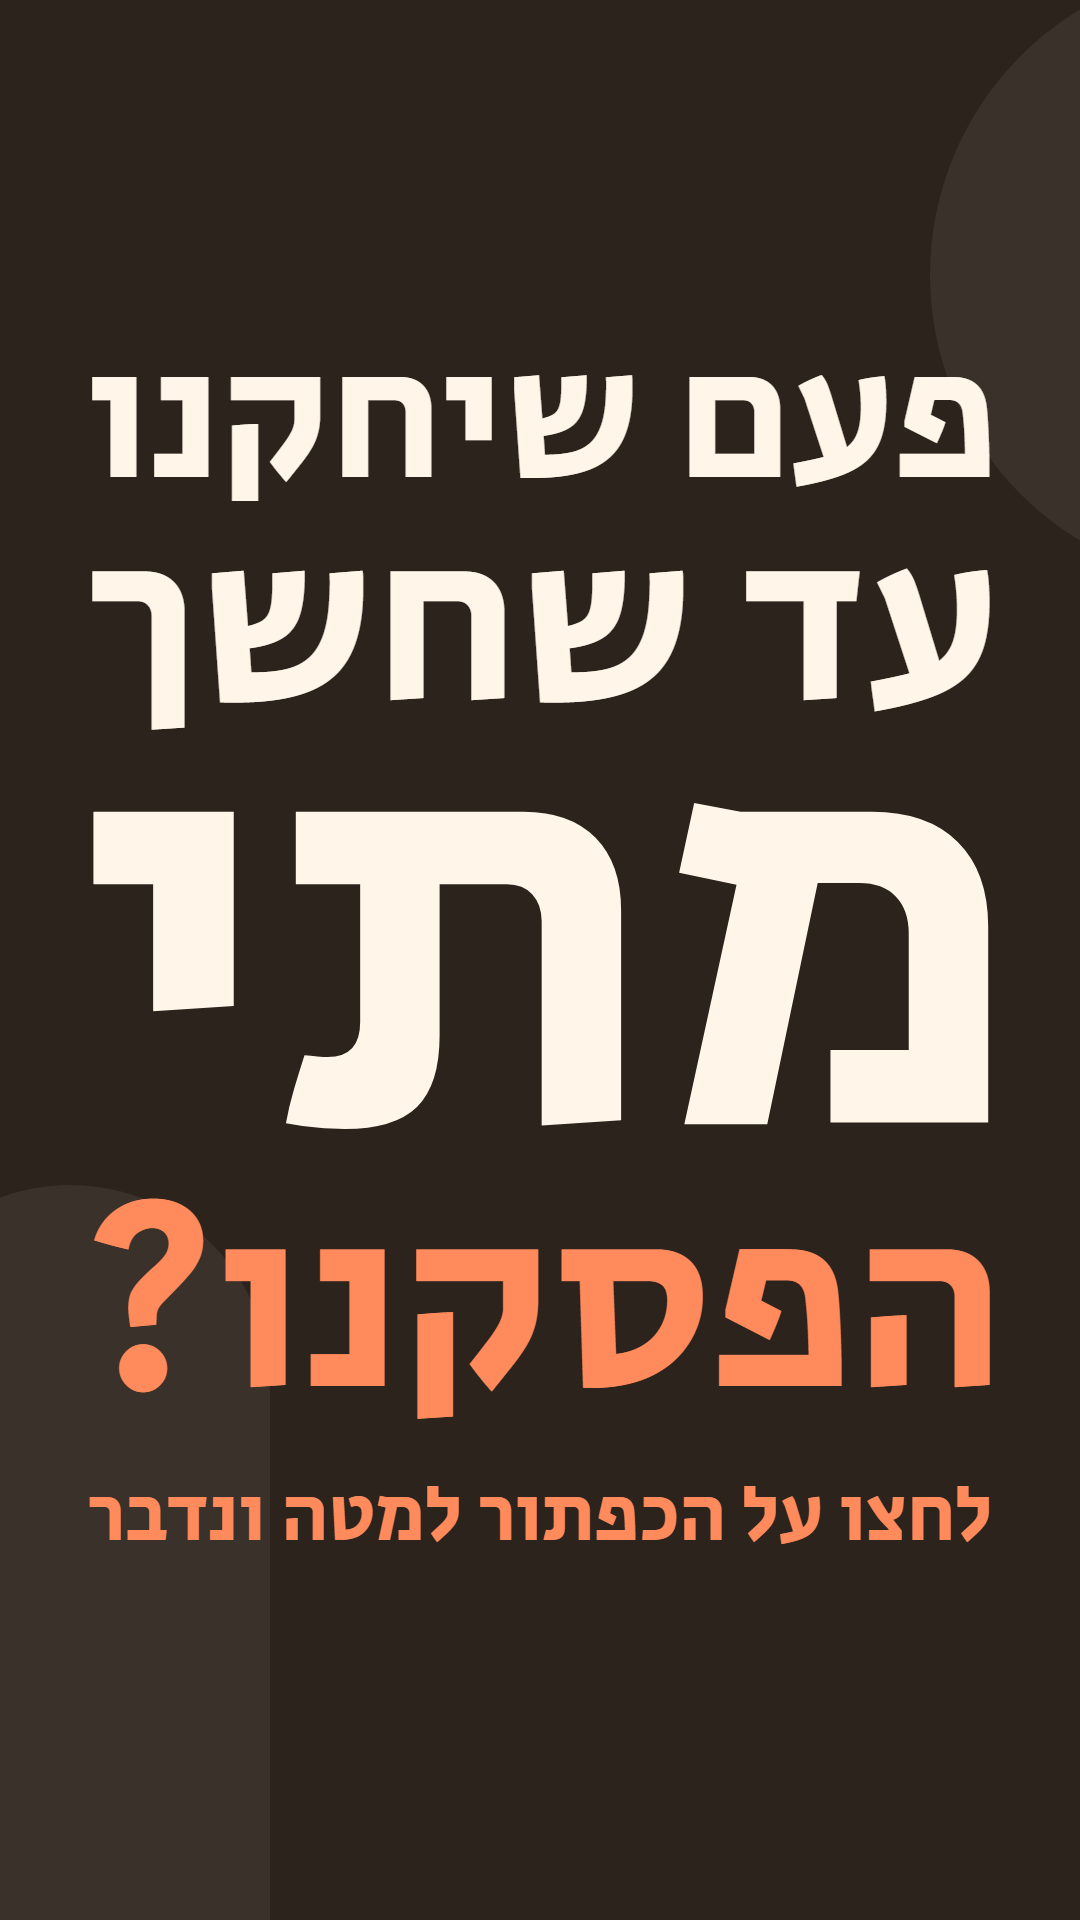
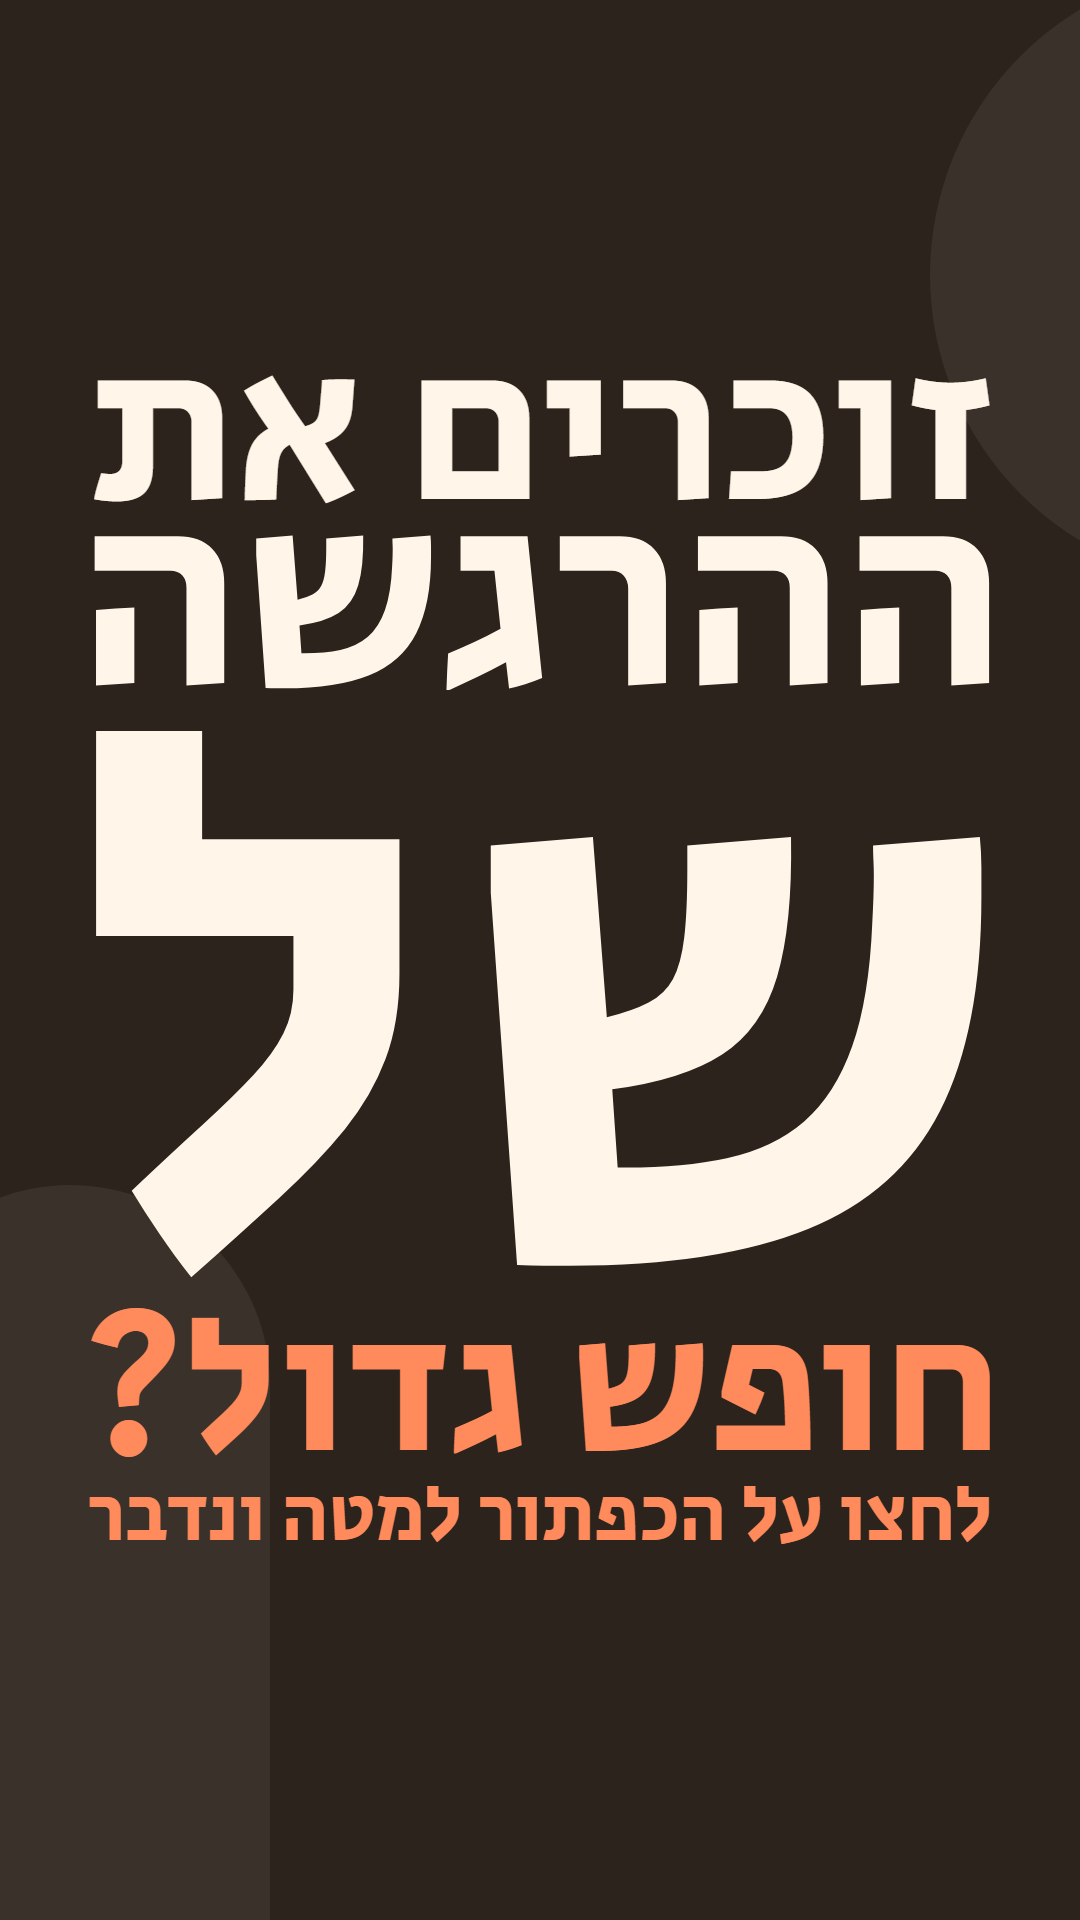
מודעת צ'אט 1: נוסטלגיה של חופש גדול

Changed region(s): [[0.0611, 0.1875, 0.9167, 0.7812]]

diff --git a/ads/tools/build_chat_ads.py b/ads/tools/build_chat_ads.py
@@ -16,7 +16,7 @@ ADS = {
   "fear": ([("הכי קשה", "fg"), ("זה לא להיות לבד", "fg"), ("זה להיכנס לחדר", "fg"), ("מלא אנשים", "acc"), ("ולא לדעת מה להגיד", "fg")], "#FFD8AE"),
   "seen": ([("מתי בפעם האחרונה", "fg"), ("מישהו הסתכל", "fg"), ("עלינו", "fg"), ("באמת?", "acc")], "#EC7F78"),
   "seen2": ([("יש הבדל", "fg"), ("בין שמכירים אותנו", "fg"), ("לבין", "fg"), ("שרואים", "acc"), ("אותנו", "fg")], "#EC7F78"),
-  "lost": ([("פעם שיחקנו", "fg"), ("עד שחשך", "fg"), ("מתי", "fg"), ("הפסקנו?", "acc")], "#FF8A5C"),
+  "lost": ([("זוכרים את", "fg"), ("ההרגשה של", "fg"), ("חופש גדול?", "acc")], "#FF8A5C"),
   "dim": ([("אין על מה", "fg"), ("להתלונן", "fg"), ("ובכל זאת", "fg"), ("משהו בפנים", "fg"), ("כבוי", "acc")], "#8DB255"),
   "years": ([("עוד שנה עברה", "fg"), ("ואנחנו עדיין", "fg"), ("מחכים", "acc"), ("שהחיים יתחילו", "fg")], "#E5562D"),
   "unseen": ([("מתי מישהו", "fg"), ("שאל מה שלומנו", "fg"), ("והתכוון", "acc"), ("לזה?", "fg")], "#EC7F78"),
